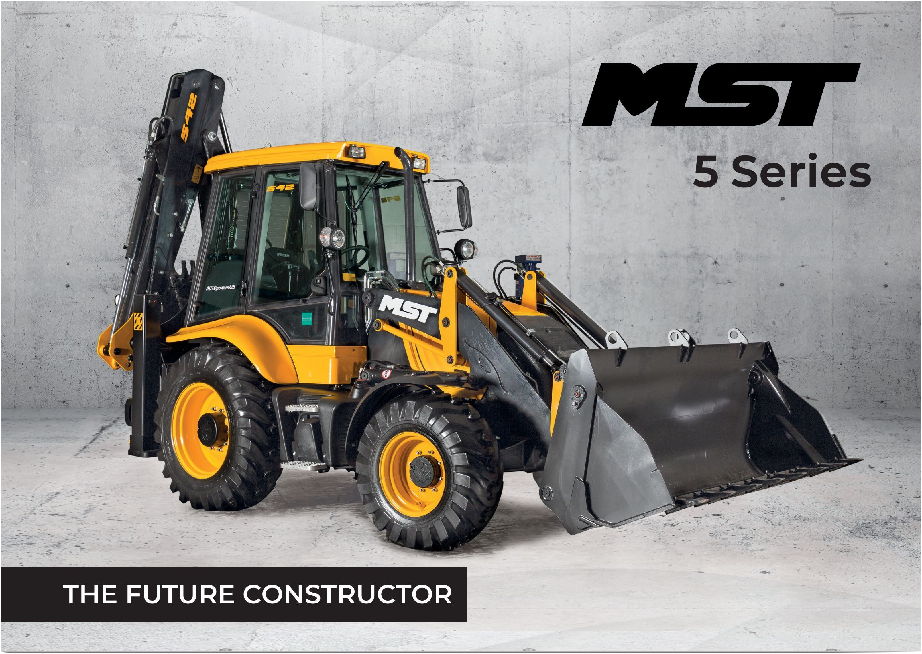
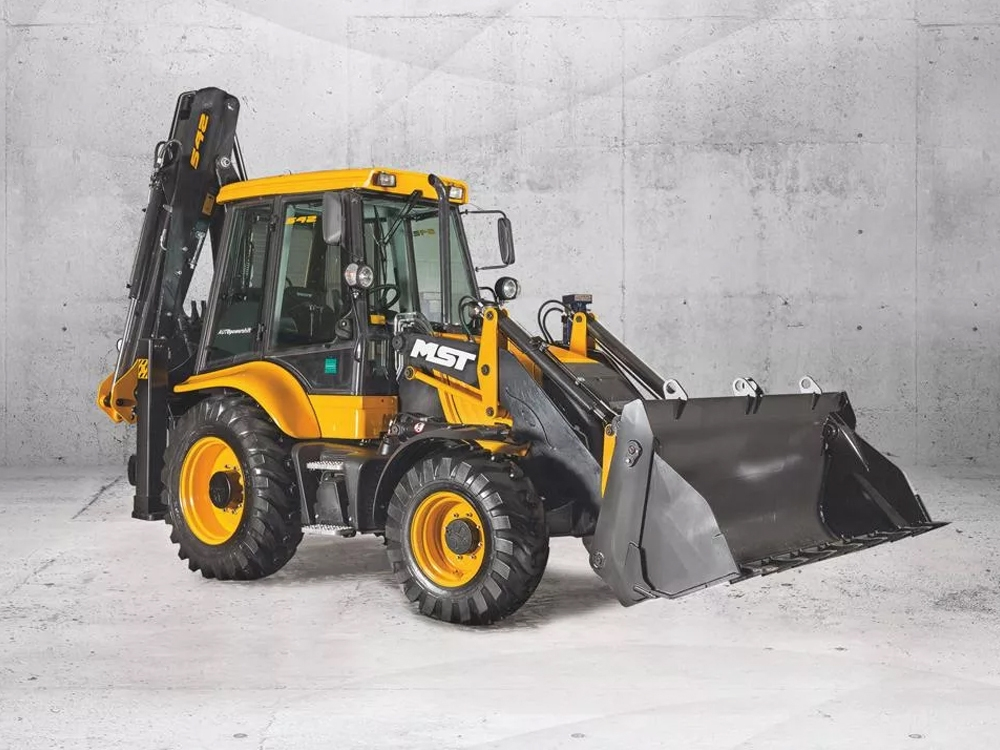
MST.5
Читай стикер мудрости и обретешь счастье

diff --git a/app/catalog/templates/MST/main.html b/app/catalog/templates/MST/main.html
@@ -25,10 +25,10 @@
                     </div>
                 </div>
                 <div class="carousel-item">
-                    <img src="/catalog/templates/MST/pics/5plus_gallery10.jpg" class="d-block w-100" alt="...">
+                    <img src="/catalog/templates/MST/pics/gray_MST.png" class="d-block w-100" alt="...">
                 </div>
                 <div class="carousel-item">
-                    <img src="/catalog/templates/MST/pics/5plus_gallery10.jpg" class="d-block w-100" alt="...">
+                    <img src="/catalog/templates/MST/pics/urun_detail_5plus.png" class="d-block w-100" alt="...">
                 </div>
             </div>
             <div style="display: flex; justify-content: center;  ">
@@ -61,7 +61,7 @@
 </div>
 
 <div class="section popular">
-    <div style="text-align: center; ">
+    <div class="pop_title" style="text-align: center; ">
         <h1 style="display: inline;">Популярные модели</h1>
         <!-- Подумать над стрелочкой -->
         <a style="display: inline; text-decoration: none; color: #ffaa1c;" href="">ПЕРЕЙТИ В КАТАЛОГ</a>
@@ -95,7 +95,7 @@
                                 </div>
                                 <div>
                                     <span>consectetur</span>
-                                    <span>adipiscing elit</span>
+                                    <span>adipiscing</span>
                                 </div>
                             </div>
 
@@ -123,7 +123,7 @@
                                 </p>
                                 <p>
                                     <span>consectetur</span>
-                                    <span>adipiscing elit</span>
+                                    <span>adipiscing</span>
                                 </p>
                             </div>
 
@@ -151,7 +151,7 @@
                                 </p>
                                 <p>
                                     <span>consectetur</span>
-                                    <span>adipiscing elit</span>
+                                    <span>adipiscing</span>
                                 </p>
                             </div>
 
@@ -177,7 +177,6 @@
 </div>
 
 <div class="container callback">
-    <!-- TODO форма для сбора данных -->
     <form>
         <input type="text" name="name" placeholder="    Имя">
         <input type="tel" name="phone" placeholder="    Телефон">
@@ -222,22 +221,14 @@
 
             <div class="col-5">
                 <ul>
-                    <li style="color: white;">К сожалению, чистой картинки у меня не было, только с логотипом и этой
-                        надписью снизу, поэтому
-                        для читаемости первый абзац будет белым. И еще немного текста для размера. И еще немного текста
-                        для размера. И еще немного текста для размера. И еще немного текста для размера. И еще немного
-                        текста для размера. И еще немного текста для размера.</li>
-                    <li>Vivamus sed nulla in velit sodales pretium id a lectus. Duis ut
-                        sapien posuere, accumsan diam eget, vulputate mi. Sed ultricies tristique ex, sit amet laoreet
-                        justo
-                        tincidunt dolor, nec egestas urna lorem id purus.</li>
-                    <li>Ut feugiat risus at nulla consequat auctor. Nam ac quam eget leo dictum bibendum eu vel nunc. In
-                        a
-                        nibh sem. Pellentesque tincidunt ipsum id nulla bibendum lobortis.</li>
-                    <li>Phasellus aliquam tincidunt
-                        sapien eu commodo. Curabitur metus arcu, dignissim id pretium eget, consectetur eget diam.
-                        Quisque
-                        felis metus, fringilla a porta a, tristique eget velit.</li>
+                    <li>Безукоризненное качество сварных швов и окраски, процесс сварки на заводе полностью
+                        автоматизирован. Сварку проводят роботы, способные обрабатывать данные в режиме 3D</li>
+                    <li>Экскаваторы-погрузчики укомплектованы полностью автоматической коробкой передач Cararro (Италия)
+                        с подрулевым управлением</li>
+                    <li>Мощный турбированный двигатель Perkins (100 л.с. Великобритания) выдаёт 413HM крутящего момента
+                        при 1350 об./мин. </li>
+                    <li>На управление рабочими органами применено гидро-распределительное оборудование знаменитого
+                        итальянского концерна Casappa</li>
                 </ul>
             </div>
         </div>
@@ -252,6 +243,7 @@
 </div>
 <!-- Да простит меня пресвятой Денис, но сделаю я это колами шестыми -->
 <div class="section callback_form">
+
     <div class="container ">
         <div class="row">
             <div class="col-6">
@@ -262,14 +254,12 @@
                 </div>
                 <div class="callback_form_white">
                     <ul>
-                        <li>Lorem ipsum dolor sit amet, consectetur adipiscing elit. Nam efficitur, mauris vel pharetra
-                            lacinia.</li>
+                        <li>Мы сотрудничаем с крупнейшими лизинговыми компаниями на специальных условиях</li>
+                        <li>Сотрудничая с нами, Вы получаете возможность приобрести технику в лизинг на специальных
+                            условиях</li>
 
-                        <li>Aliquam eu maximus tellus, non sodales arcu. Curabitur dignissim elit eu mauris viverra
-                            varius.</li>
-
-                        <li>Ut sapien turpis, pulvinar et ornare ac, pharetra sed erat. In vel dictum nulla.
-                            Pellentesque eleifend urna eu turpis vestibulum luctus.</li>
+                        <li>Наши сотрудники подберут для Вас наиболее подходящие лизинговые программы с комфортными
+                            платежами</li>
                     </ul>
                 </div>
             </div>
@@ -277,12 +267,12 @@
 
                 <div>
                     <form class="callback_form_form">
-                        <input type="text" id="name" name="name" placeholder="Имя">
-                        <input type="number" id="inn" name="inn" placeholder="ИНН">
-                        <input type="org" id="name" name="org" placeholder="Название организации">
-                        <input type="email" id="mail" name="mail" placeholder="e-mail">
-                        <input type="tel" id="phone" name="phone" placeholder="Телефон">
-                        <input type="submit" id="send" name="send" value="Заявка на рассчёт">
+                        <input type="text" id="name" name="name" placeholder="  Имя">
+                        <input type="number" id="inn" name="inn" placeholder="  ИНН">
+                        <input type="org" id="name" name="org" placeholder="  Название организации">
+                        <input type="email" id="mail" name="mail" placeholder="  e-mail">
+                        <input type="tel" id="phone" name="phone" placeholder="  Телефон">
+                        <input type="submit" id="send" name="send" value="Заявка на расчёт">
                     </form>
                 </div>
             </div>

diff --git a/app/catalog/templates/MST/MST.css b/app/catalog/templates/MST/MST.css
@@ -1,3 +1,10 @@
+@import url('https://fonts.googleapis.com/css2?family=Caveat:wght@500&family=Marck+Script&family=Montserrat:ital,wght@0,100;0,200;0,300;0,400;0,500;0,600;0,700;0,800;0,900;1,100;1,200;1,300;1,400;1,500;1,600;1,700;1,800;1,900&family=Neucha&display=swap');
+
+
+body{
+    font-family: 'Montserrat', sans-serif;
+}
+
 header {
     background-color: #000000;
     color: white;
@@ -6,7 +13,15 @@ header {
 
 }
 
-h1,h2,h3,h4,h5,p,dl, ol, ul{
+h1,
+h2,
+h3,
+h4,
+h5,
+p,
+dl,
+ol,
+ul {
     margin-bottom: 0;
 }
 
@@ -26,7 +41,7 @@ header .container .row {
     position: static;
 }
 
-.header_text li a{
+.header_text li a {
     text-decoration: none;
     color: white;
 }
@@ -61,8 +76,6 @@ header .container .row {
     bottom: 5rem;
     display: inline-block;
     background-color: #dcdcdc;
-
-
 }
 
 .swiper_container {
@@ -97,7 +110,9 @@ header .container .row {
     background-color: #dcdcdc;
     box-shadow: 0px 18px 11px -9px rgba(23, 40, 52, 0.2);
 }
-
+.pop_title {
+   padding-top: 2rem;
+}
 /* .product_container {
 
     display: flex;
@@ -111,7 +126,7 @@ header .container .row {
 }
 
 .card {
-    padding: 1rem 2rem 1rem 2rem;
+    padding: 1rem 2rem;
     box-shadow: 0px 16px 18px 0px rgba(34, 60, 80, 0.2);
     margin-top: 2rem;
     margin-bottom: 2rem;
@@ -200,7 +215,7 @@ header .container .row {
     color: white;
     display: flex;
     padding: 4rem 1rem 2rem 0;
-    
+
 
 }
 
@@ -241,10 +256,9 @@ header .container .row {
 .p_features {
     background-image: url('pics/gray_MST.png');
     background-color: #d2d2d2;
-
     background-repeat: no-repeat;
     background-size: cover;
-    background-position: center;
+    background-position: top;
     height: 1200px;
 }
 
@@ -253,8 +267,13 @@ header .container .row {
     color: black;
     padding-top: 2rem;
     text-align: left;
-
 }
+.prod_features h1 {
+    font-weight: 800;
+    text-transform: uppercase;
+    margin-top: 2rem;
+}
+
 
 .prod_features ul {
     display: flex;
@@ -262,12 +281,14 @@ header .container .row {
 }
 
 .prod_features ul li {
-    border-left: black solid 3px;
+    border-left: black solid 4px;
     list-style-type: none;
-    margin: 1rem 0 1rem 0;
+    margin: 2rem 0;
     padding-left: 1rem;
     line-height: 1.1rem;
     font-weight: 600;
+    text-transform: uppercase;
+    font-size: 1.1rem;
 }
 
 .callback_misc {
@@ -276,10 +297,12 @@ header .container .row {
     margin-top: 4rem;
     margin-bottom: 4rem;
 }
+
 .callback_misc a {
     text-decoration: none;
     box-shadow: 1px 4px 8px 7px rgba(34, 60, 80, 0.2);
 }
+
 .misc_call {
     color: white;
     background-color: #313e4f;
@@ -293,8 +316,18 @@ header .container .row {
 }
 
 .callback_form {
-    background-image: none;
+    background: 
+    linear-gradient(90deg, white 0%, rgba(0, 0, 0, 0.6) 0%),
+    url(pics/mst_f.jpg);
+    
     background-color: #313e4f;
+    background-repeat: no-repeat;
+    background-size: cover;
+    background-position: center;
+    height: 800px;
+    position: relative;
+    box-shadow: 0px -14px 8px 0px rgba(34, 60, 80, 0.2);
+
 }
 
 .callback_form_orange {
@@ -305,6 +338,9 @@ header .container .row {
 
 .callback_form_white {
     color: white;
+    width: 60%;
+    text-align: left;
+    font-size: 1.2rem;
 
 }
 
@@ -312,6 +348,7 @@ header .container .row {
     list-style-type: none;
     padding-left: 0;
 }
+
 .callback_form_white ul li {
     padding-bottom: 1rem;
 }
@@ -322,14 +359,20 @@ header .container .row {
     display: flex;
     flex-direction: column;
 }
+
 .callback_form_form input {
-    margin-bottom: 1rem;
+    margin-bottom: 2rem;
+    padding: 2rem 0.5rem;
     height: 3rem;
     border-radius: 10px;
-    padding-left: 0.5rem;
 }
+
 #send {
     background-color: #ffaa1c;
+    text-align: center;
+    font-size: 1.6rem;
+    padding: 0;
+    font-weight: 600;
 }
 
 footer {
@@ -350,13 +393,13 @@ footer {
 
 }
 
-.footer_text a{
+.footer_text a {
     text-decoration: none;
     color: #000000;
 
 }
 
-.footer_callback button{
+.footer_callback button {
     margin-top: 1rem;
     padding: 0 1rem;
     border-radius: 10px;

diff --git a/app/catalog/templates/MST/base.html b/app/catalog/templates/MST/base.html
@@ -18,10 +18,10 @@
     Итак, требуется сделать следующее:
     Прописать разворачивание шапки на размере L и выше, остальные варианты должны быть свернуты;
     Оффканва должна быть неактивна в большом размере, кнопки быть не должно;
-    Возможно, есть смысл (если это возможно и не запарно) закрепить меню фикседом на мелкофонах;
-    Поработать над карточками (сыпятся на мелкофонах) (прописать колы на меньшие размеры, или отфлексить?);
     Доделать нижнюю форму (и потестить с картинкой) ((черный фон и прозрачность?));
     Допилить тени на все блоки
+    Читать стикер Мудрости
+    сделать всё, как на скрине
 
  -->
 <body>
